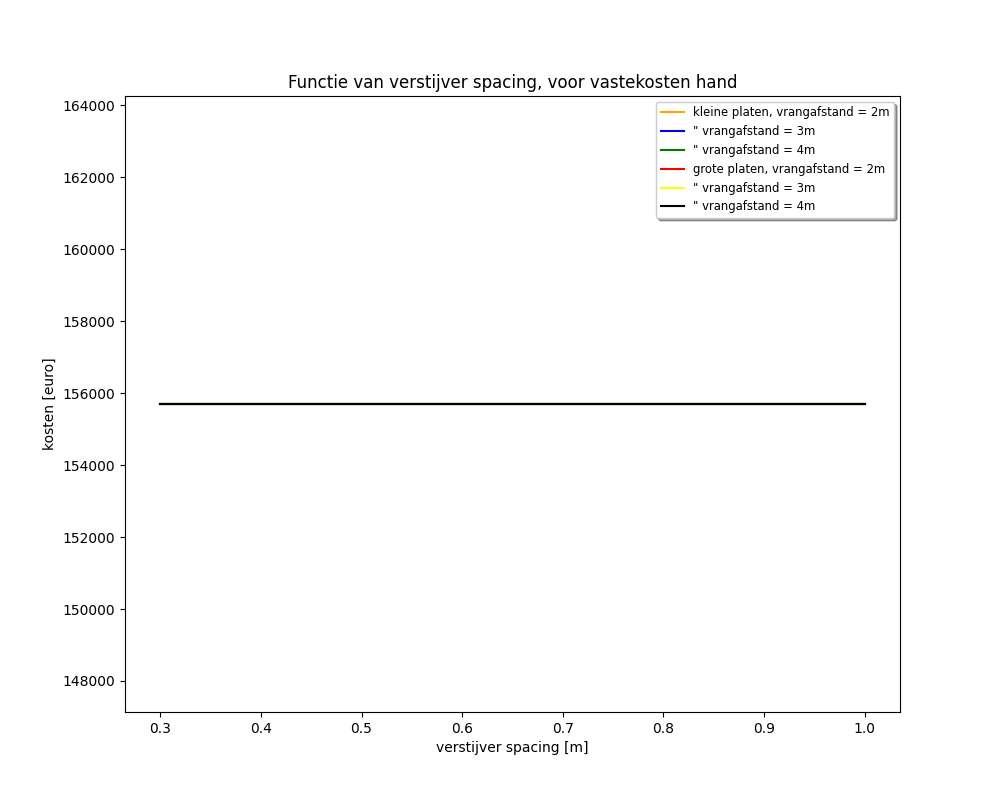
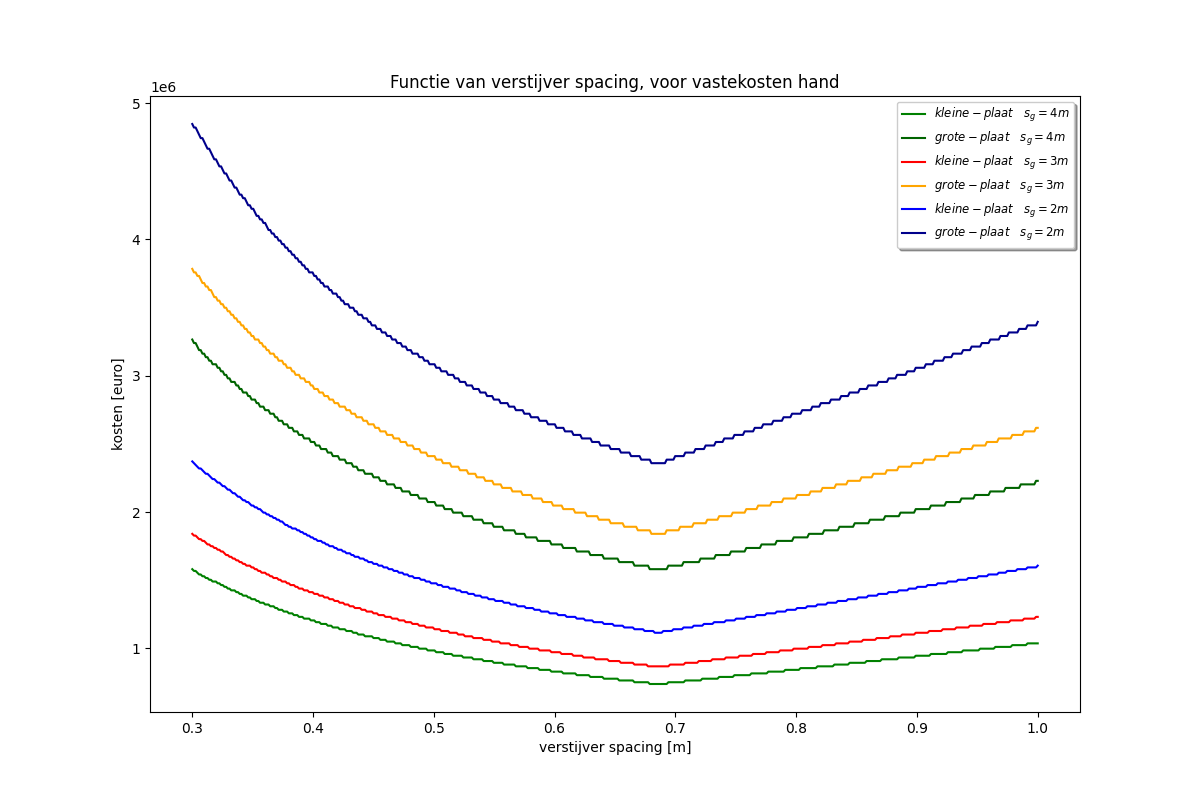
hop

diff --git a/construeren/plaatproductie/herkansing.py b/construeren/plaatproductie/herkansing.py
@@ -56,7 +56,8 @@ class totaal():
         urenpplaat = nplaat + 2 + 1/0.35*(Llas_plaat/15 +(Llas_vrang_verti/1.2 +(Llas_vrang_hori+Llas_zaathout+Llas_spant)/2)*(7.8*tpmm**2/2000) )+0.5*(nspant)+4*(nvrang+nzaathout)
         personeel = aantal_jaar*50* urenpplaat
 
-        loods
+        nplek = np.int32((urenpplaat*aantal_jaar)/2000)
+        loods = A*nplek
 
         vastekosten = 90*loods
 
@@ -83,6 +84,9 @@ class totaal():
         urenpplaat = nplaat + 2 + 1/0.35*(Llas_plaat/15 +(Llas_vrang_verti/1.2 +(Llas_vrang_hori+Llas_zaathout+Llas_spant)/2)*(7.8*tpmm**2/2000) )+0.5*(nspant)+8*(nvrang+nzaathout)
 
         personeel = aantal_jaar*50*urenpplaat
+
+        nplek = np.int32((urenpplaat*aantal_jaar)/2000)
+        loods = 2*A*nplek
 
         vastekosten = 90*loods
 
@@ -161,6 +165,58 @@ def plot_totaal(titel):
     titeltje= "Functie van verstijver spacing, voor "+titel
     plt.title(titeltje)
     plt.legend(loc = "best", shadow = True, fontsize="small")
-    figure.savefig("./plaatproductie/"+titel+".png")
+    figure.savefig("./construeren/plaatproductie/"+titel+".png")
+
+def plot_vastekosten(titel):
+    figure = plt.figure(figsize=(12,8))
+    plt.plot(ss,k_h_4_vast, c="green"     ,label="$kleine-plaat \quad s_g = 4m$")
+    plt.plot(ss,g_h_4_vast, c="darkgreen"     ,label="$grote-plaat \quad s_g = 4m$")
+    plt.plot(ss,k_h_3_vast, c="red"     ,label="$kleine-plaat \quad s_g = 3m$")
+    plt.plot(ss,g_h_3_vast, c="orange"     ,label="$grote-plaat \quad s_g = 3m$")
+    plt.plot(ss,k_h_2_vast, c="blue"     ,label="$kleine-plaat \quad s_g = 2m$")
+    plt.plot(ss,g_h_2_vast, c="darkblue"     ,label="$grote-plaat \quad s_g = 2m$")
+    plt.xlabel("verstijver spacing [m]")
+    plt.ylabel("kosten [euro]")
+    titeltje= "Functie van verstijver spacing, voor "+titel
+    plt.title(titeltje)
+    plt.legend(loc = "best", shadow = True, fontsize="small")
+    figure.savefig("./construeren/plaatproductie/"+titel+".png")
+
+def plot_personeel(titel):
+    figure = plt.figure(figsize=(12,8))
+    plt.plot(ss,k_h_4_per, c="green"     ,label="$kleine-plaat \quad s_g = 4m$")
+    plt.plot(ss,g_h_4_per, c="darkgreen"     ,label="$grote-plaat \quad s_g = 4m$")
+    plt.plot(ss,k_h_3_per, c="red"     ,label="$kleine-plaat \quad s_g = 3m$")
+    plt.plot(ss,g_h_3_per, c="orange"     ,label="$grote-plaat \quad s_g = 3m$")
+    plt.plot(ss,k_h_2_per, c="blue"     ,label="$kleine-plaat \quad s_g = 2m$")
+    plt.plot(ss,g_h_2_per, c="darkblue"     ,label="$grote-plaat \quad s_g = 2m$")
+    plt.xlabel("verstijver spacing [m]")
+    plt.ylabel("kosten [euro]")
+    titeltje= "Functie van verstijver spacing, voor "+titel
+    plt.title(titeltje)
+    plt.legend(loc = "best", shadow = True, fontsize="small")
+    figure.savefig("./construeren/plaatproductie/"+titel+".png")
+
+def plot_materiaal(titel):
+    figure = plt.figure(figsize=(12,8))
+    plt.plot(ss,k_h_4_mat, c="green"     ,label="$kleine-plaat \quad s_g = 4m$")
+    plt.plot(ss,g_h_4_mat, c="darkgreen"     ,label="$grote-plaat \quad s_g = 4m$")
+    plt.plot(ss,k_h_3_mat, c="red"     ,label="$kleine-plaat \quad s_g = 3m$")
+    plt.plot(ss,g_h_3_mat, c="orange"     ,label="$grote-plaat \quad s_g = 3m$")
+    plt.plot(ss,k_h_2_mat, c="blue"     ,label="$kleine-plaat \quad s_g = 2m$")
+    plt.plot(ss,g_h_2_mat, c="darkblue"     ,label="$grote-plaat \quad s_g = 2m$")
+    plt.xlabel("verstijver spacing [m]")
+    plt.ylabel("kosten [euro]")
+    titeltje= "Functie van verstijver spacing, voor "+titel
+    plt.title(titeltje)
+    plt.legend(loc = "best", shadow = True, fontsize="small")
+    figure.savefig("./construeren/plaatproductie/"+titel+".png")
+
+
+plot_vastekosten("vastekosten hand")
 
 plot_totaal("totale kosten hand")
+
+plot_personeel("personeelskosten hand")
+
+plot_materiaal("materiaal kosten")

diff --git a/WVA/Model WP.py b/WVA/Model WP.py
@@ -7,14 +7,17 @@ from math import sqrt
 
 np.errstate(divide = 'ignore') 
 #v_m = 1.59328
-v_m = np.arange(0,1.2,0.1)
-v_m = np.delete(v_m,1)
-R_tm = np.array([0.0,0.098,0.2,0.34,0.57,0.83,1.13,1.51,1.98,2.59,3.4])
 
-v_s = 13.5*0.51444
+v_m_vb =  np.arange(0.0,1.7,0.1)
+v_m_vb= np.delete(v_m_vb,1)
+R_tm_vb = np.array([0.0,0.11,0.22,0.41,0.62,0.87,1.18,1.57,2.06,2.62,3.48,4.79,6.22,8.06,11.34,16.65])
+v_m = np.array( [0.0,    0.1,    0.2,    0.3,    0.4,    0.6,    0.8,    1.0,    1.2,    1.4,    1.6])
+R_tm = np.array([0.0,   0.0354, 0.1022, 0.1782, 0.3359, 1.5856, 2.3528, 3.4945, 5.7248-0.6895,    9.0836-0.6895,    18.079])
+
+#v_s = 13.5*0.51444
 L_s = 31.5
 L_m = 31.5/19
-R_ts = 100.793*10**3
+#R_ts = 100.793*10**3
 vis_s = 1.2873E-6
 vis_m = 1.0811E-6
 rho_s = 1026.6376
@@ -22,29 +25,44 @@ rho_m = 998.778
 s_s = 272.6
 s_m = 272.6/(19**2)
 g = 9.81
+aL = 19
 
+
+
+#R_tm = 0.5*rho_m*var1**2*s_m*(0.075/(m.log10(Re_m)-2)**2 + (2*R_ts)/(rho_s*v_s**2*s_s) - 0.075/(m.log10(Re_s)-2)**2)
+
+
+def rekenen(var1,var2):
+
+        Fr = var1/m.sqrt(g*L_m) 
+        Re = (var1*L_m)/vis_m
+        C_fm = 0.075/(np.log10(Re)-2)**2
+        C_tm = (var2)/(0.5*rho_m*(var1**2)*s_m)
+        frac1 = Fr**4/C_fm
+        frac2 = C_tm/C_fm
+        return [Fr,Re,C_fm,C_tm,frac1,frac2]
+
+
+v_s = v_m*m.sqrt(aL)
 Re_s = (v_s*L_s)/vis_s
 Re_m = (v_m*L_m)/vis_m
+C_ts = 0.075/(np.log10(Re_s)-2)**2 + (2*R_tm)/(rho_m*v_m**2*s_m) - 0.075/(np.log10(Re_m)-2)**2
 
-#R_tm = 0.5*rho_m*v_m**2*s_m*(0.075/(m.log10(Re_m)-2)**2 + (2*R_ts)/(rho_s*v_s**2*s_s) - 0.075/(m.log10(Re_s)-2)**2)
-
-Fr = v_m/m.sqrt(g*L_m) 
-Re = (v_m*L_m)/vis_m
-C_fm = 0.075/(np.log10(Re)-2)**2
-C_tm = (R_tm)/(0.5*rho_m*(v_m**2)*s_m)
-frac1 = Fr**4/C_fm
-frac2 = C_tm/C_fm
-
-
+R_ts = 0.5*C_ts*rho_s*v_s**2*s_s 
 
 label = np.array(["V_m[m/s]","R_tm[N]","Fr[-]","Re[-]","C_fm[-]","C_tm[-]","Fr^4/C_fm[-]","C_tm/C_fm[-]"])
 
-table = np.array([Fr,Re,C_fm,C_tm,frac1,frac2])
+table_vb = np.array(rekenen(v_m_vb,R_tm_vb))
 
-table_trans = table.T
+table = np.array(rekenen(v_m,R_tm))
+
+
+
+table_trans = table_vb.T
 def display():
         with np.printoptions(precision=3, suppress=True):
                 print(table_trans)
+
 
 rc = (1.33-1.28)/(0.2-0.1)
 lin = np.arange(0.0,0.21,0.01)
@@ -53,19 +71,38 @@ func = lin*rc+b
 k = b-1
 k = "%.4f" % k
 
-def plot():
+def plot(var,var2):
         figure = plt.figure(figsize=(8,5))
         plt.xlabel(r"$F_n^4/C_{F,m}$")
         plt.ylabel(r"$C_{T,m}/C_{F,m}$")
-        titel = "Prohaska Plot, k= "+str(k)
+        titel = "Prohaska Plot weerstandsproef"
         plt.title(titel)
-        plt.plot(frac1,frac2)
-        plt.plot(lin,func,c="orange",linestyle="dashed")
+        plt.plot(var[4],var[5])
+        plt.scatter(var[4],var[5],label="metingen MT-10")
+        plt.plot(var2[4],var2[5])
+        plt.scatter(var2[4],var2[5],label="referentie metingen")
+#        plt.plot(lin,func,c="orange",linestyle="dashed")
         plt.grid()
-        plt.savefig("Prohaska.png")
+        plt.legend()
+        plt.savefig("Prohaska verpeste WP.png")
         plt.show()
 
-plot()
+plot(table,table_vb)
 
 np.savetxt("tabel.csv", table_trans, delimiter=",",fmt='%10.3f')
 
+
+def plot_R_v(var,var2,titel):
+        figure = plt.figure(figsize=(8,5))
+        plt.ylabel(r"$R_s \; [N]$")
+        plt.xlabel(r"$v_s \; [ms^{-1}]$")
+        plt.title(titel)
+        plt.plot(var,var2)
+        plt.scatter(var,var2)
+#        plt.plot(lin,func,c="orange",linestyle="dashed")
+        titelfig= titel+".png"
+        plt.grid()
+        plt.savefig(titelfig)
+        plt.show()
+
+#plot_R_v(v_s,R_ts,"scheepsweerstand")
